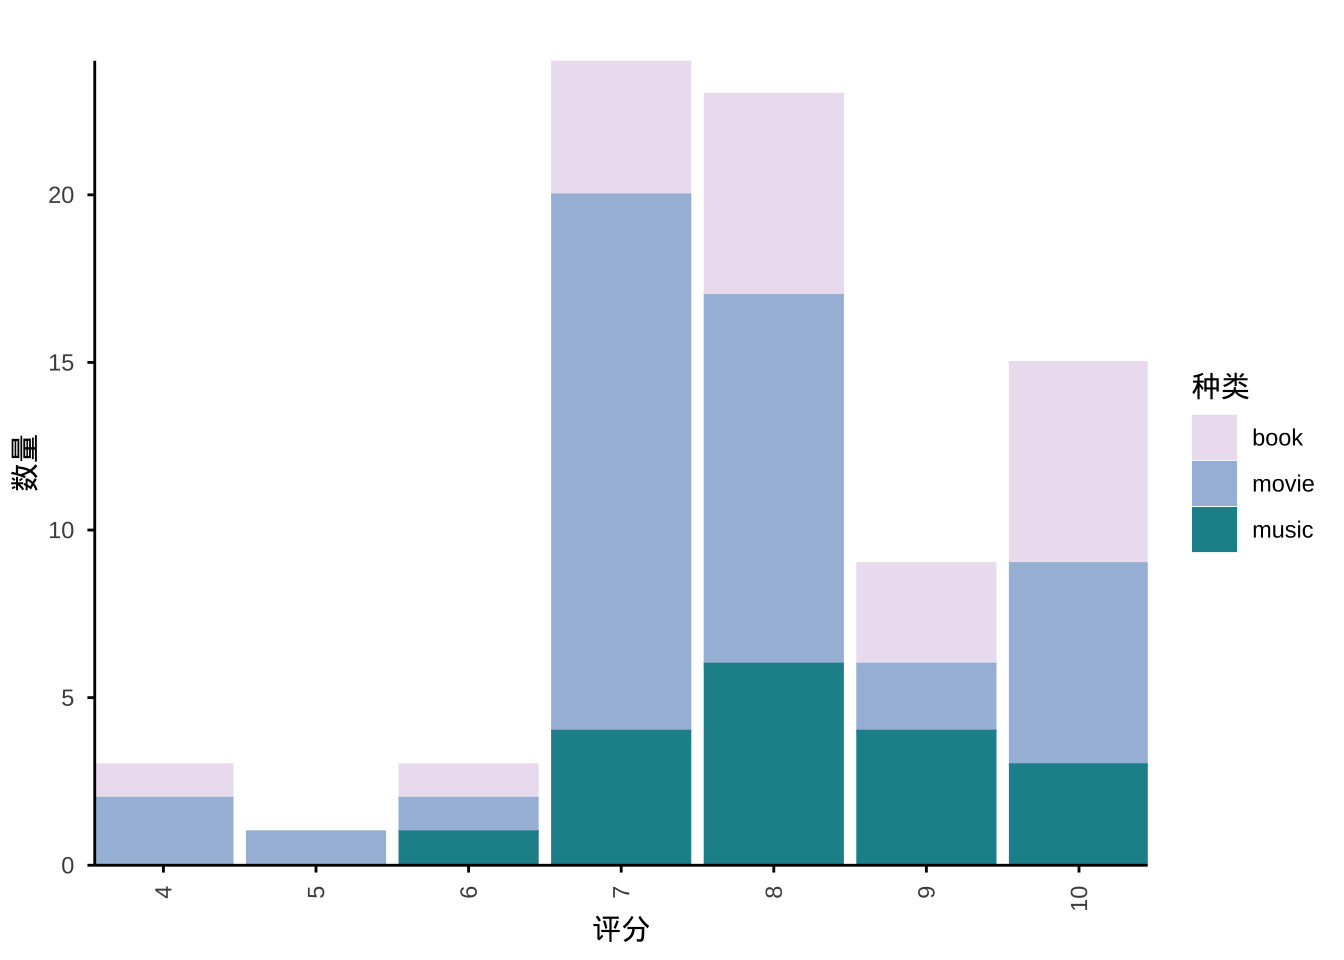
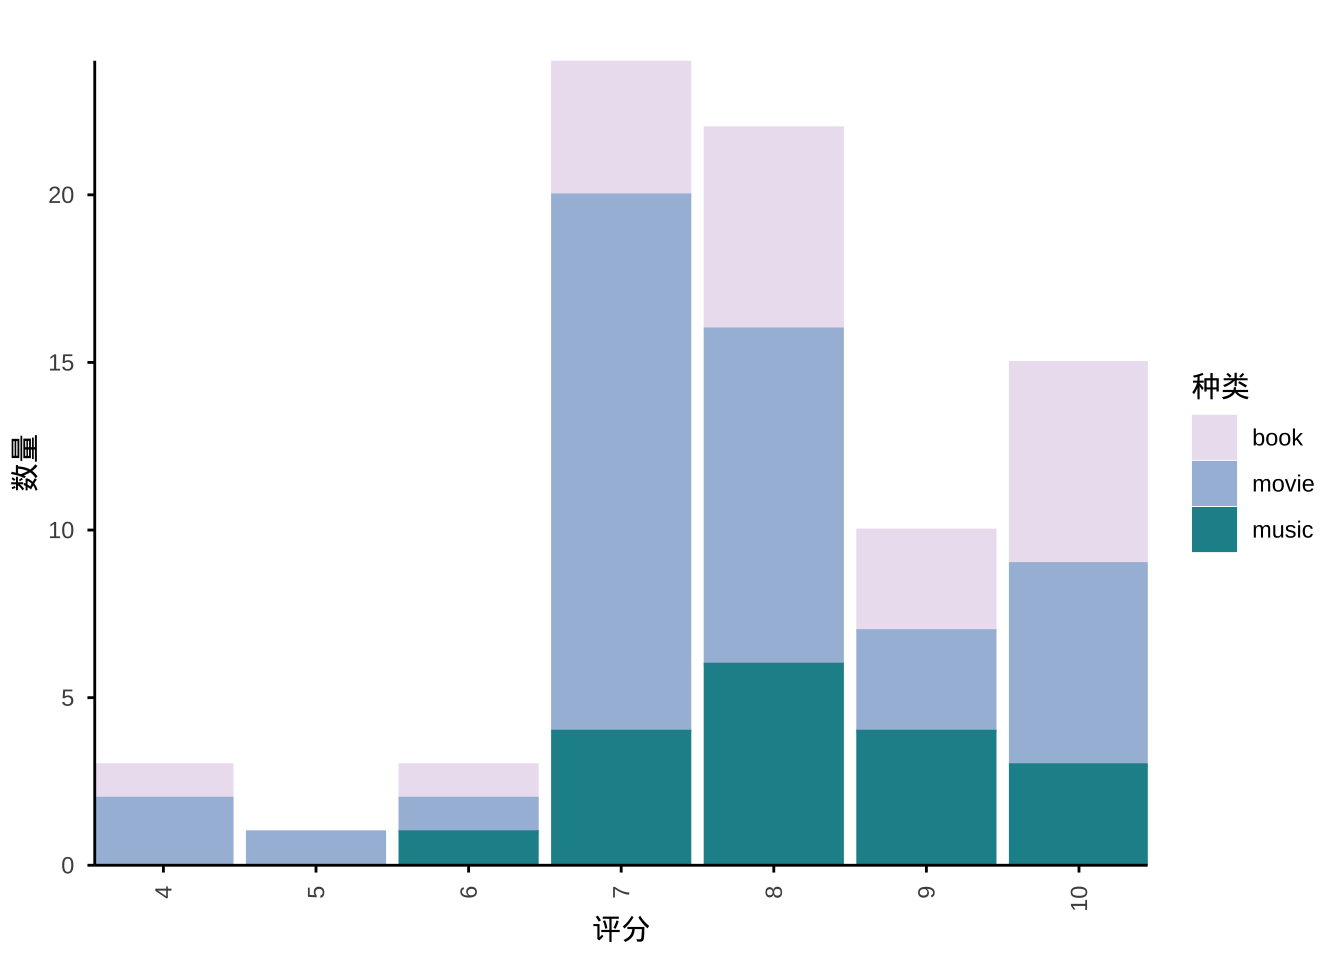
fix bugs

diff --git a/docs/gallery.html b/docs/gallery.html
@@ -777,7 +777,7 @@ window.document.addEventListener("DOMContentLoaded", function (event) {
 });
 </script>
 </div> <!-- /content -->
-<script>var lightboxQuarto = GLightbox({"descPosition":"bottom","closeEffect":"zoom","loop":false,"openEffect":"zoom","selector":".lightbox"});
+<script>var lightboxQuarto = GLightbox({"descPosition":"bottom","selector":".lightbox","openEffect":"zoom","closeEffect":"zoom","loop":false});
 (function() {
   let previousOnload = window.onload;
   window.onload = () => {

diff --git a/docs/personal/240120_review_ride/index.html b/docs/personal/240120_review_ride/index.html
@@ -1026,7 +1026,7 @@ window.document.addEventListener("DOMContentLoaded", function (event) {
 </nav>
 </div> <!-- /content -->
 <script src="../../scripts/mylikebutton.js"></script>
-<script>var lightboxQuarto = GLightbox({"closeEffect":"zoom","selector":".lightbox","descPosition":"bottom","loop":false,"openEffect":"zoom"});
+<script>var lightboxQuarto = GLightbox({"selector":".lightbox","openEffect":"zoom","closeEffect":"zoom","descPosition":"bottom","loop":false});
 (function() {
   let previousOnload = window.onload;
   window.onload = () => {

diff --git a/docs/personal/241214_radio/index.html b/docs/personal/241214_radio/index.html
@@ -1126,7 +1126,7 @@ window.document.addEventListener("DOMContentLoaded", function (event) {
 </nav>
 </div> <!-- /content -->
 <script src="../../scripts/mylikebutton.js"></script>
-<script>var lightboxQuarto = GLightbox({"loop":false,"closeEffect":"zoom","descPosition":"bottom","selector":".lightbox","openEffect":"zoom"});
+<script>var lightboxQuarto = GLightbox({"descPosition":"bottom","selector":".lightbox","loop":false,"closeEffect":"zoom","openEffect":"zoom"});
 (function() {
   let previousOnload = window.onload;
   window.onload = () => {

diff --git a/docs/personal/251231_radio/index.html b/docs/personal/251231_radio/index.html
@@ -1232,7 +1232,7 @@ window.document.addEventListener("DOMContentLoaded", function (event) {
 </nav>
 </div> <!-- /content -->
 <script src="../../scripts/mylikebutton.js"></script>
-<script>var lightboxQuarto = GLightbox({"selector":".lightbox","closeEffect":"zoom","loop":false,"openEffect":"zoom","descPosition":"bottom"});
+<script>var lightboxQuarto = GLightbox({"closeEffect":"zoom","selector":".lightbox","descPosition":"bottom","loop":false,"openEffect":"zoom"});
 (function() {
   let previousOnload = window.onload;
   window.onload = () => {

diff --git a/docs/personal/260112_birding_eaglecreek/index.html b/docs/personal/260112_birding_eaglecreek/index.html
@@ -1056,7 +1056,7 @@ window.document.addEventListener("DOMContentLoaded", function (event) {
 </nav>
 </div> <!-- /content -->
 <script src="../../scripts/mylikebutton.js"></script>
-<script>var lightboxQuarto = GLightbox({"selector":".lightbox","descPosition":"bottom","openEffect":"zoom","loop":false,"closeEffect":"zoom"});
+<script>var lightboxQuarto = GLightbox({"openEffect":"zoom","closeEffect":"zoom","selector":".lightbox","loop":false,"descPosition":"bottom"});
 (function() {
   let previousOnload = window.onload;
   window.onload = () => {

diff --git a/docs/personal/260117_travel_baltimore_music/index.html b/docs/personal/260117_travel_baltimore_music/index.html
@@ -1223,7 +1223,7 @@ window.document.addEventListener("DOMContentLoaded", function (event) {
 </nav>
 </div> <!-- /content -->
 <script src="../../scripts/mylikebutton.js"></script>
-<script>var lightboxQuarto = GLightbox({"loop":false,"closeEffect":"zoom","descPosition":"bottom","openEffect":"zoom","selector":".lightbox"});
+<script>var lightboxQuarto = GLightbox({"selector":".lightbox","openEffect":"zoom","loop":false,"descPosition":"bottom","closeEffect":"zoom"});
 (function() {
   let previousOnload = window.onload;
   window.onload = () => {

diff --git a/docs/personal/260124_travel_baltimore_railroad/index.html b/docs/personal/260124_travel_baltimore_railroad/index.html
@@ -1270,7 +1270,7 @@ window.document.addEventListener("DOMContentLoaded", function (event) {
 </nav>
 </div> <!-- /content -->
 <script src="../../scripts/mylikebutton.js"></script>
-<script>var lightboxQuarto = GLightbox({"closeEffect":"zoom","descPosition":"bottom","loop":false,"selector":".lightbox","openEffect":"zoom"});
+<script>var lightboxQuarto = GLightbox({"openEffect":"zoom","descPosition":"bottom","selector":".lightbox","closeEffect":"zoom","loop":false});
 (function() {
   let previousOnload = window.onload;
   window.onload = () => {

diff --git a/docs/personal/260304_radio/index.html b/docs/personal/260304_radio/index.html
@@ -1055,7 +1055,7 @@ window.document.addEventListener("DOMContentLoaded", function (event) {
 </nav>
 </div> <!-- /content -->
 <script src="../../scripts/mylikebutton.js"></script>
-<script>var lightboxQuarto = GLightbox({"descPosition":"bottom","loop":false,"selector":".lightbox","closeEffect":"zoom","openEffect":"zoom"});
+<script>var lightboxQuarto = GLightbox({"closeEffect":"zoom","descPosition":"bottom","loop":false,"selector":".lightbox","openEffect":"zoom"});
 (function() {
   let previousOnload = window.onload;
   window.onload = () => {

diff --git a/docs/personal/260328_travel_baltimore_citywalk/index.html b/docs/personal/260328_travel_baltimore_citywalk/index.html
@@ -1217,7 +1217,7 @@ window.document.addEventListener("DOMContentLoaded", function (event) {
 </nav>
 </div> <!-- /content -->
 <script src="../../scripts/mylikebutton.js"></script>
-<script>var lightboxQuarto = GLightbox({"openEffect":"zoom","loop":false,"closeEffect":"zoom","descPosition":"bottom","selector":".lightbox"});
+<script>var lightboxQuarto = GLightbox({"loop":false,"selector":".lightbox","openEffect":"zoom","closeEffect":"zoom","descPosition":"bottom"});
 (function() {
   let previousOnload = window.onload;
   window.onload = () => {

diff --git a/docs/personal/260402_diary_citymouse/index.html b/docs/personal/260402_diary_citymouse/index.html
@@ -1054,7 +1054,7 @@ window.document.addEventListener("DOMContentLoaded", function (event) {
 </nav>
 </div> <!-- /content -->
 <script src="../../scripts/mylikebutton.js"></script>
-<script>var lightboxQuarto = GLightbox({"loop":false,"openEffect":"zoom","closeEffect":"zoom","descPosition":"bottom","selector":".lightbox"});
+<script>var lightboxQuarto = GLightbox({"loop":false,"selector":".lightbox","openEffect":"zoom","descPosition":"bottom","closeEffect":"zoom"});
 (function() {
   let previousOnload = window.onload;
   window.onload = () => {

diff --git a/docs/personal/260505_review_westgames/index.html b/docs/personal/260505_review_westgames/index.html
@@ -1079,7 +1079,7 @@ window.document.addEventListener("DOMContentLoaded", function (event) {
 </nav>
 </div> <!-- /content -->
 <script src="../../scripts/mylikebutton.js"></script>
-<script>var lightboxQuarto = GLightbox({"loop":false,"descPosition":"bottom","closeEffect":"zoom","selector":".lightbox","openEffect":"zoom"});
+<script>var lightboxQuarto = GLightbox({"closeEffect":"zoom","selector":".lightbox","loop":false,"openEffect":"zoom","descPosition":"bottom"});
 (function() {
   let previousOnload = window.onload;
   window.onload = () => {

diff --git a/docs/personal/260521_birding_horticulture/index.html b/docs/personal/260521_birding_horticulture/index.html
@@ -1169,7 +1169,7 @@ window.document.addEventListener("DOMContentLoaded", function (event) {
 </nav>
 </div> <!-- /content -->
 <script src="../../scripts/mylikebutton.js"></script>
-<script>var lightboxQuarto = GLightbox({"descPosition":"bottom","openEffect":"zoom","closeEffect":"zoom","loop":false,"selector":".lightbox"});
+<script>var lightboxQuarto = GLightbox({"closeEffect":"zoom","openEffect":"zoom","selector":".lightbox","descPosition":"bottom","loop":false});
 (function() {
   let previousOnload = window.onload;
   window.onload = () => {